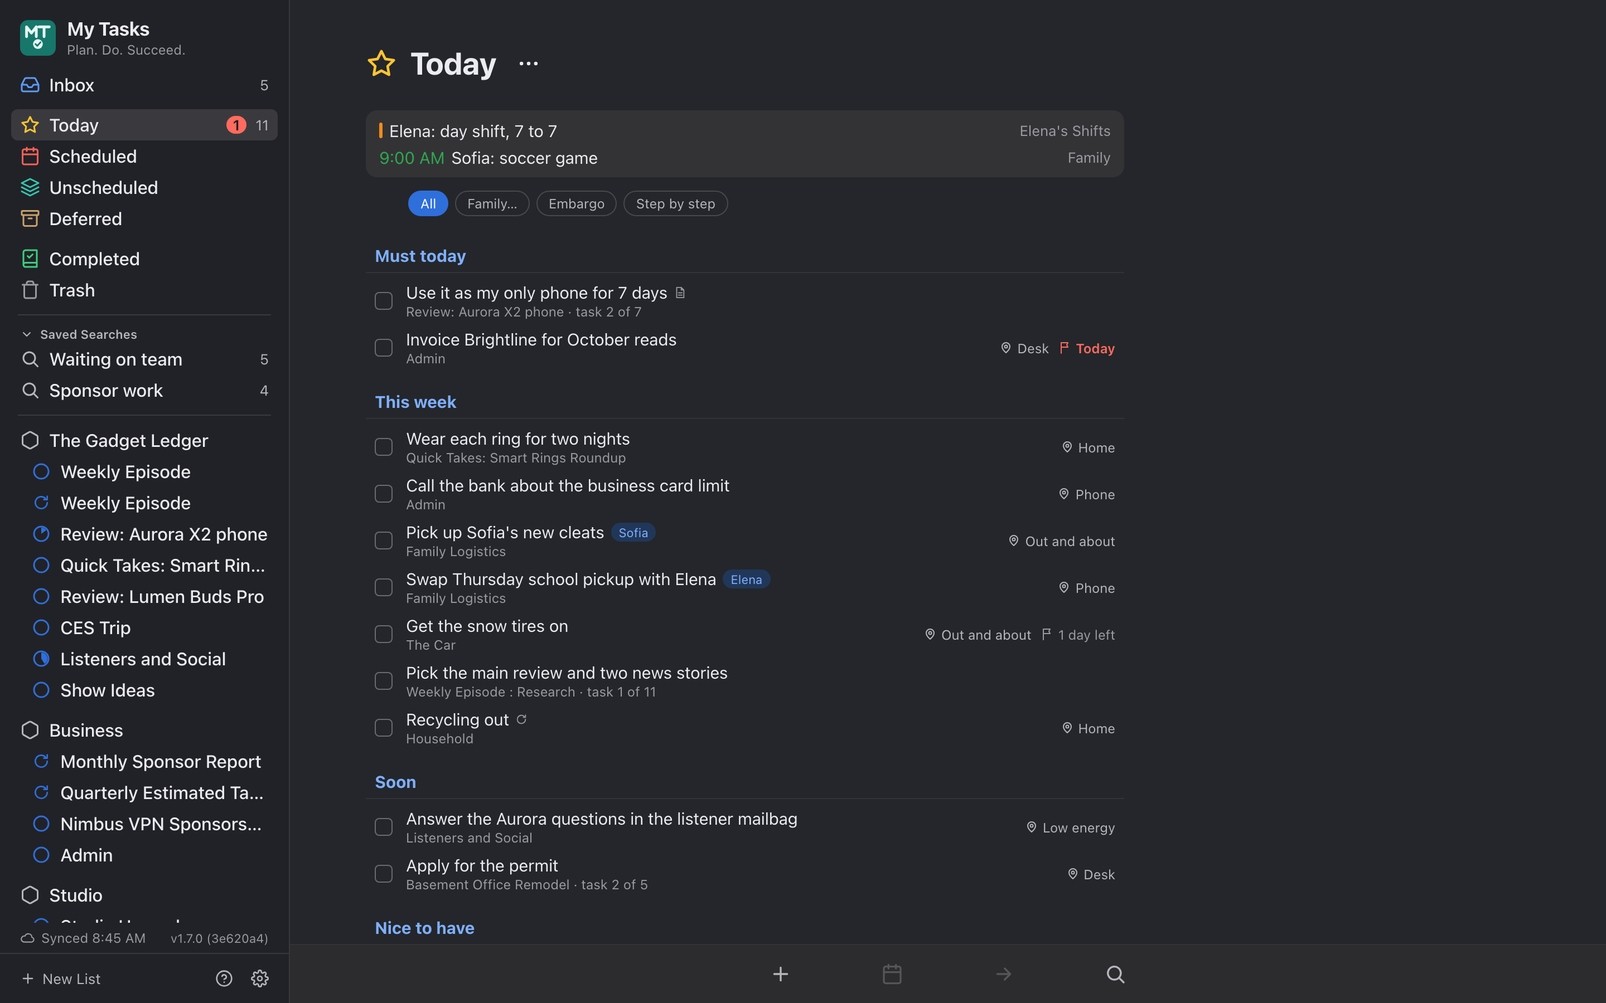
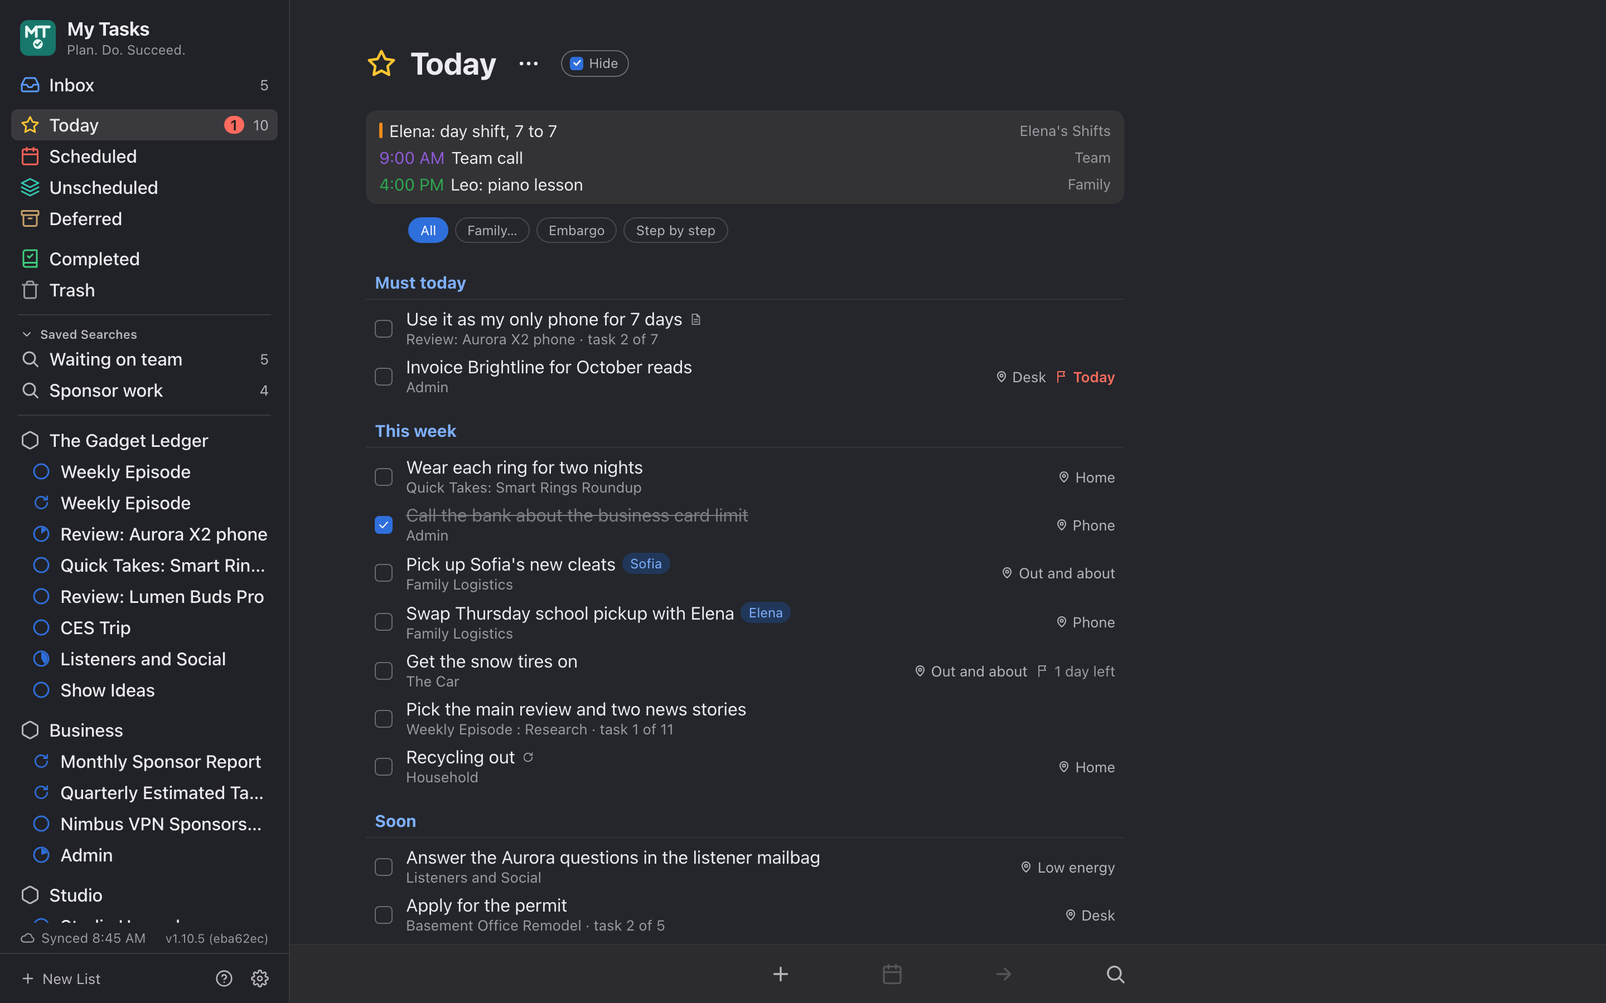
Sharing with people you trust, on the website (18d) (#35)
* Sharing with people you trust, on the website (18d)

Website only, no version change (conv. 2026-11-22-C, continued 2026-11-23):
- Guide: "Sharing with someone you trust" (#sharing): setting it up with
  one gist, token and passphrase, working together, stopping sharing.
- Limitations: item 5 "Sharing with someone else" (#sharing); items 5-9
  become 6-10; item 8 points to it instead of saying there's no sharing.
- Home: a Features card (a lone last card is centered) and a Common
  question; Compare and README: "Sharing with others" is Limited.
- Roadmap page: sharing and the screenshots done, the book to come;
  Teamwork off the Backlog (now not planned). DEVELOPMENT.md.
- npm run screenshots checks off one of Today's tasks, so the Home and
  README screenshots show Today's Hide button.

Claude-Session: https://claude.ai/code/session_01XGZXfH2F6Dp3BTDPhfh2Jh

* Retake the Home and README screenshots on the Mac, showing Today's Hide (18d)

Claude-Session: https://claude.ai/code/session_01XGZXfH2F6Dp3BTDPhfh2Jh

---------

diff --git a/site/limitations/index.html b/site/limitations/index.html
@@ -29,6 +29,7 @@
       <li><a href="#github">GitHub account and token</a></li>
       <li><a href="#passphrase">Your passphrase</a></li>
       <li><a href="#conflicts">Editing on two devices</a></li>
+      <li><a href="#sharing">Sharing with someone else</a></li>
       <li><a href="#device">Your device's copy</a></li>
       <li><a href="#safari">Safari tabs</a></li>
       <li><a href="#not-possible">What a web app can't do on its own</a></li>
@@ -54,27 +55,31 @@
     <p>Devices sync through your gist a few seconds after each change. Changes to different tasks on two devices, and to different parts of the same task (such as one device completing it and another adding a note), are all kept once each device has synced. If the same part of a task is changed on two devices before they sync, such as its title on both, the later change wins, judged by each device's clock, and the other change is lost; the device whose change was lost tells you which tasks were affected. A change that hasn't synced yet is only on its device, so it's lost if that device's data is cleared or it is disconnected first. <a href="/guide/#two-devices">How changes on two devices are kept</a>.</p>
     <p class="do">What to do: let a device sync (the sidebar shows "Synced") before switching to another.</p></div>
 
-  <div class="item" id="device"><h3>5. Your device's copy</h3>
+  <div class="item" id="sharing"><h3>5. Sharing with someone else</h3>
+    <p>Two or more people who trust each other can share My Tasks by using one gist, one token and one passphrase. The more people who share it, the more likely conflicts and surprises become: changes replacing each other, and shared settings or actions such as Empty Trash affecting everyone. There's <strong>no privacy</strong> between you: each of you can see, change and delete every task, and Focus on this Area only filters the screen. You all use the same token from the GitHub account that holds the gist, and it can read and change every gist in that account. Synced settings, tags and contexts are shared. Empty Trash, Archive, Restore and Change Passphrase affect all of you. When two of you change the same part of a task before syncing, only the person whose change was replaced is told. The gist's history keeps earlier versions, and anyone with the gist's address and the passphrase used at the time can open them. Sharing isn't suited to teams: there are no separate sign-ins or permissions, and no record of who changed what. <a href="/guide/#sharing">How to share</a>.</p>
+    <p class="do">What to do: share only with people you'd trust with all your tasks and all the gists in that GitHub account. Give the token an expiry. When sharing ends, make a new token for your own devices and revoke the old one. Agree on who runs Empty Trash, Archive and Restore, and save a backup from time to time.</p></div>
+
+  <div class="item" id="device"><h3>6. Your device's copy</h3>
     <p>Each device keeps a working copy of your tasks in the browser's storage so it works offline. That copy is <strong>not</strong> encrypted: anyone who can use your unlocked device can read it.</p>
     <p>A backup file you save in Settings › Backup is <strong>not</strong> encrypted either: anyone who can open it can read your tasks. Restoring one replaces all your tasks, on every device once it syncs, and can't be undone.</p>
     <p><strong>Archive</strong> files and a Things export are plain CSV files, not encrypted either. Archive removes the items it saves from every device for good: the file is then the only copy.</p>
     <p class="do">What to do: lock your devices, and use Disconnect This Device in Settings before giving one away. Keep backup, archive and export files somewhere only you can open, and save a backup before you restore one.</p></div>
 
-  <div class="item" id="safari"><h3>6. Safari tabs</h3>
+  <div class="item" id="safari"><h3>7. Safari tabs</h3>
     <p>In a Safari tab, Safari can delete a site's data after 7 days without use. Your tasks are also in your gist and come back when you connect again, but a change not yet synced would be lost. On iPhone and iPad, the installed app and Safari keep separate copies.</p>
     <p class="do">What to do: install My Tasks (Add to Home Screen, or Add to Dock on a Mac). Your tasks are also in your gist.</p></div>
 
-  <div class="item" id="not-possible"><h3>7. What a web app can't do on its own</h3>
-    <p>Without a server, My Tasks itself can't send notifications. <strong>Reminders</strong> are coming through the helper you run on a Mac, Mac only for now: you'll give a task a reminder time, and the helper will add it to Apple Reminders, which alerts you on your iPhone, iPad, Mac and Apple Watch. Until then, for a task that needs an alert at a set time, add a reminder for it in your device's reminders app. Web apps also can't have widgets, Siri or Shortcuts actions, an Apple Watch app, or a Quick Entry shortcut that works from other apps. There's no sharing lists with other people.</p>
+  <div class="item" id="not-possible"><h3>8. What a web app can't do on its own</h3>
+    <p>Without a server, My Tasks itself can't send notifications. <strong>Reminders</strong> are coming through the helper you run on a Mac, Mac only for now: you'll give a task a reminder time, and the helper will add it to Apple Reminders, which alerts you on your iPhone, iPad, Mac and Apple Watch. Until then, for a task that needs an alert at a set time, add a reminder for it in your device's reminders app. Web apps also can't have widgets, Siri or Shortcuts actions, an Apple Watch app, or a Quick Entry shortcut that works from other apps. Sharing is limited to people who trust each other using one gist (<a href="#sharing">Sharing with someone else</a>).</p>
     <p>Without a server, every device's tasks travel as one encrypted file in your gist, which holds about 5 MB. So My Tasks holds up to <strong>5,000 tasks</strong>, counting completed tasks and the Trash. From 4,500 the sidebar says how many you have; at 5,000 new tasks are refused until you make room. A repeating task still makes its next copy, and tasks from your other devices still arrive.</p>
     <p>A web app can't read your device's calendars. <strong>Calendar events</strong> come only from the helper you run on a Mac (<a href="/guide/#calendar">Guide</a>): without it, no events show, on any device. Events arrive when the helper runs (every 15 minutes by default) and the app next syncs, so a new event can take a while to appear. They're read-only, and there's no helper for Windows, Linux or a phone yet. Your events, with their titles, times and details, are kept in your gist, encrypted like your tasks, and the helper keeps your token and passphrase in your Mac's login Keychain.</p>
     <p class="do">What to do: empty the Trash and delete completed tasks you no longer need. Save a backup first if you want to keep them.</p></div>
 
-  <div class="item" id="platforms"><h3>8. Platforms</h3>
+  <div class="item" id="platforms"><h3>9. Platforms</h3>
     <p>My Tasks is tuned for Safari on Mac, iPhone and iPad, and for Chrome and Edge. Android works but isn't tested. Firefox can't install web apps. Screen readers and other assistive technology aren't supported yet. English only.</p>
     <p>Tag shortcuts use Control on Apple devices. On other systems the browser keeps Control and a letter for itself, so they use Alt instead; there, Alt with 0 to 5 stays with priorities, and in a browser tab Alt+D and Alt+H stay with their own shortcuts.</p></div>
 
-  <div class="item" id="no-warranty"><h3>9. No guarantees</h3>
+  <div class="item" id="no-warranty"><h3>10. No guarantees</h3>
     <p>My Tasks is provided as is, under the MIT licence, with no warranty and no guaranteed support or availability. Ask for help in <a href="https://www.reddit.com/r/mytasksfyi/">r/mytasksfyi</a> on Reddit, or <a href="https://github.com/CyberAdvisor/MyTasks/issues">report problems on GitHub</a>.</p>
     <p>Because My Tasks is open source, you can also host your own copy, or change it to suit you: see <a href="/self-hosting/">Your own copy</a>. A copy you host is yours to look after.</p></div>
 </main>

diff --git a/site/guide/index.html b/site/guide/index.html
@@ -30,6 +30,7 @@
       <li><a href="#passphrase">Choose a passphrase</a></li>
       <li><a href="#another-device">Add another device</a></li>
       <li><a href="#two-devices">Changing the same task on two devices</a></li>
+      <li><a href="#sharing">Sharing with someone you trust</a></li>
       <li><a href="#everyday">Everyday use</a></li>
       <li><a href="#repeating">Repeating tasks and projects</a></li>
       <li><a href="#calendar">Calendar events</a></li>
@@ -88,6 +89,30 @@
   <ul>
     <li>Let a device sync (the sidebar shows <strong>Synced</strong>) before switching to another. While a device is offline, the sidebar shows how many of its changes are waiting, such as <strong>Offline · 3 changes not synced</strong>.</li>
     <li>Keep your devices’ clocks set automatically.</li>
+  </ul>
+
+  <h2 id="sharing">Sharing with someone you trust</h2>
+  <p>People who trust each other, such as a couple or a household, can share one set of tasks. You all use the same gist, token and passphrase, so everyone can see and change everything. The more people who share it, the more likely it is that changes collide and replace each other, and that one person’s action, such as Empty Trash or a settings change, surprises the others. It isn’t made for teams: there are no separate sign-ins, no permissions and no record of who changed what. Read <a href="/limitations/#sharing">Sharing with someone else</a> before you start.</p>
+  <h3 id="sharing-setup">Setting it up</h3>
+  <ul>
+    <li>Give each person an area of their own, such as “Michael” and “Jane”, and a shared one for household tasks if you like.</li>
+    <li>On each of their devices, install My Tasks, paste the same token you use, and enter your passphrase (<a href="#another-device">Add another device</a>).</li>
+    <li>Each of you chooses <strong>Focus on this Area</strong> for your own area. It only changes what you see: the others’ tasks are still there, a click away.</li>
+  </ul>
+  <h3 id="sharing-together">Working together</h3>
+  <ul>
+    <li>Changes to different tasks, and to different parts of the same task, are all kept (<a href="#two-devices">Changing the same task on two devices</a>). When two of you change the same part before your devices sync, the later change wins, and only the person whose change was replaced sees the notice.</li>
+    <li>Synced settings are shared: Today’s grouping, the priority labels and the two automatic-priority switches, Completed Items, Sequential Projects, tasks shown per project in Unscheduled, and Show Calendar Events. So are tags and contexts: renaming or deleting one changes everyone’s tasks.</li>
+    <li>Some actions affect everything, for all of you: <strong>Empty Trash</strong>, <strong>Delete Immediately</strong>, <strong>Archive</strong>, <strong>Restore from Backup…</strong>, <strong>Move Completed Items</strong> and <strong>Change Passphrase</strong>. Agree that only one of you runs them.</li>
+    <li>Undo can refuse a step with “Can’t undo: changed on another device” when someone else’s device has touched that task since.</li>
+    <li>The 5,000-task limit counts everyone’s tasks.</li>
+    <li>If one of you runs the calendar helper on a Mac, its events show for all of you.</li>
+  </ul>
+  <h3 id="sharing-stop">Stopping sharing</h3>
+  <ul>
+    <li>On GitHub, make a new token, and use <strong>Change Token</strong> in Settings › Sync on each of your own devices. Then revoke the old token on GitHub (Settings › Developer settings › Personal access tokens). The other person’s devices stop syncing; they keep the tasks they already have until <strong>Disconnect This Device</strong> is used on them.</li>
+    <li>Change your passphrase in Settings › Sync.</li>
+    <li>Earlier versions in the gist’s history stay encrypted with the old passphrase: anyone who has the gist’s address and that passphrase can still open them.</li>
   </ul>
 
   <h2 id="everyday">Everyday use</h2>

diff --git a/site/index.html b/site/index.html
@@ -56,6 +56,7 @@
       <div class="card"><h3>Contexts</h3><p>Mark where or how a task gets done — Errands, Phone, Computer — and filter Today by it.</p></div>
       <div class="card"><h3>Group Today your way</h3><p>See Today as one list, or grouped by project, priority or context. Save searches to the sidebar.</p></div>
       <div class="card"><h3>Made for the keyboard</h3><p>Quick Entry, Quick Find and a full set of keyboard shortcuts, wherever the browser allows them.</p></div>
+      <div class="card"><h3>Share with someone you trust</h3><p>A couple or a household can share one set of tasks, each in their own area. The more people share, the more likely changes collide. <a href="/limitations/#sharing">Its limits</a></p></div>
     </div>
   </section>
 
@@ -107,6 +108,7 @@
       <details><summary>Can I take my data with me?</summary><p>Yes. <strong>Save Backup</strong> in Settings › Backup downloads all your tasks as a file whenever you like, <strong>Archive</strong> saves old completed tasks to a CSV file, and the gist is in your own account. <a href="/guide/#backup">Back up and restore</a>.</p></details>
       <details><summary>Does it work offline?</summary><p>Yes. Installed, My Tasks opens and works with no connection, and your changes sync when you're back online.</p></details>
       <details><summary>Can I import tasks from another app?</summary><p>Yes. <strong>Import…</strong> in Settings adds tasks from a CSV file to what you have, after showing you what it holds. A script for your Mac writes that file from Things 3. <a href="/import/">Import from other apps</a>.</p></details>
+      <details><summary>Can I share my tasks with someone else?</summary><p>Yes, with people you trust, such as a partner or your household. You all use the same gist, token and passphrase, and each of you can keep your own area. Everyone can see and change everything, settings and actions such as Empty Trash affect all of you, and the more people who share, the more likely it is that changes collide and replace each other. It isn't made for teams. <a href="/guide/#sharing">How to share</a> · <a href="/limitations/#sharing">Sharing with someone else</a>.</p></details>
       <details><summary>Does it have reminders?</summary><p>Not yet, but they're coming. A web app without a server can't send notifications itself, so you'll give a task a reminder time and the calendar helper on your Mac will add it to Apple Reminders, which alerts you on your iPhone, iPad, Mac and Apple Watch. It's Mac only for now: it needs a Mac running the helper. Until then, for a task that needs an alert at a set time, add a reminder for it in your device's reminders app. <a href="/roadmap/">Roadmap</a> · <a href="/limitations/#not-possible">What a web app can't do on its own</a>.</p></details>
     </div>
   </section>

diff --git a/e2e/screenshots.shoot.ts b/e2e/screenshots.shoot.ts
@@ -2,7 +2,8 @@
  * `npm run screenshots`: retake the README and website screenshots from the
  * current code, with Marcus Reyes's sample from the book (e2e/marcusPage.ts,
  * never real tasks), against a faked GitHub: Today grouped by his priorities,
- * with the day's calendar events, as in the book. Not part of
+ * with the day's calendar events, as in the book, and one task checked off so
+ * Today shows its Hide button. Not part of
  * `npm run test:ui`: it runs through playwright.screenshots.config.ts, and
  * writes:
  *
@@ -13,15 +14,24 @@
  *
  * Run on a Mac, so the text is in the Mac's own font.
  */
-import { test } from '@playwright/test';
+import { expect, test, type Page } from '@playwright/test';
 import { go, groupToday, marcus, settle } from './marcusPage';
 
 const SHOTS = 'site/assets/shots';
+
+/** Check off one of Today's tasks, so it shows struck through and Today shows Hide. */
+async function checkOffOne(page: Page): Promise<void> {
+  await page.getByRole('checkbox', { name: 'Complete: Call the bank about the business card limit' }).click();
+  // The task stays in Today, struck through; Hide appears after its 2 seconds.
+  await expect(page.getByRole('button', { name: 'Hide' })).toBeVisible({ timeout: 5000 });
+  await settle(page);
+}
 
 test('Mac screenshots, light and dark', async ({ browser }) => {
   const page = await marcus(browser);
   await go(page, '#/today', 'Invoice Brightline');
   await groupToday(page, 'Priorities');
+  await checkOffOne(page);
   await page.screenshot({ path: `${SHOTS}/desktop-light.png` });
   await page.screenshot({ path: 'docs/images/today.png' });
   await page.emulateMedia({ colorScheme: 'dark' });
@@ -33,5 +43,6 @@ test('iPhone screenshot, light', async ({ browser }) => {
   const page = await marcus(browser, true);
   await go(page, '#/today', 'Invoice Brightline');
   await groupToday(page, 'Priorities');
+  await checkOffOne(page);
   await page.screenshot({ path: `${SHOTS}/phone-light.png` });
 });

diff --git a/site/roadmap/index.html b/site/roadmap/index.html
@@ -31,7 +31,9 @@
       <li class="done">Changes to different parts of the same task on two devices are all kept, such as one completing it and another adding a note <span class="ver">v1.10.0</span></li>
       <li class="done">A device tells you when a change of yours was replaced by a later one from another device <span class="ver">v1.10.1</span></li>
       <li class="done">While offline, the sidebar shows how many changes are waiting to sync <span class="ver">v1.10.2</span></li>
-      <li>Sharing your tasks with someone you trust, with its limits</li>
+      <li class="done">Sharing your tasks with people you trust, with its limits, on this website</li>
+      <li class="done">Screenshots on this website retaken, showing Today’s Hide / Show</li>
+      <li>The book shows sharing, with a partner keeping her own area</li>
     </ul>
   </section>
   <section class="milestone">
@@ -48,13 +50,6 @@
     <ul>
       <li>Switch between gists, for example one for work and one for personal tasks</li>
       <li>Other places to keep your tasks (research)</li>
-    </ul>
-  </section>
-  <section class="milestone">
-    <h3>Teamwork</h3>
-    <ul>
-      <li>Small teams sharing a gist, with an assigned field on tasks (research)</li>
-      <li>Two people sharing one gist, each in their own area, without one overwriting the other: changes merged field by field, settings kept per person, and Empty Trash, Archive and Move Completed Items acting only on your own area</li>
     </ul>
   </section>
   <section class="milestone">

diff --git a/site/assets/site.css b/site/assets/site.css
@@ -59,6 +59,8 @@ section.block { padding: 80px 0 0; }
 section.block h2 { font-size: 36px; letter-spacing: -0.01em; text-align: center; margin: 0 0 12px; }
 section.block p.sub { text-align: center; color: var(--text-2); font-size: 19px; max-width: 680px; margin: 0 auto 40px; }
 .grid3 { display: grid; grid-template-columns: repeat(3, 1fr); gap: 22px; }
+/* A lone card on the last row sits in the middle column. */
+.grid3 > :last-child:nth-child(3n+1) { grid-column: 2; }
 /* Home: common questions, each opening on click (<details>, no script). */
 .faq { max-width: 760px; margin: 28px auto 0; border-top: 1px solid var(--line); }
 .faq details { border-bottom: 1px solid var(--line); }
@@ -131,6 +133,7 @@ kbd { font-family: inherit; font-size: 14px; background: var(--bg-2); border: 1p
   .hero p.lede { font-size: 18px; }
   .shots img.phone { width: 120px; right: -6px; bottom: -24px; border-width: 4px; border-radius: 20px; }
   .grid3, .steps { grid-template-columns: 1fr; }
+  .grid3 > :last-child:nth-child(3n+1) { grid-column: auto; }
   section.block h2, .closing h2 { font-size: 28px; }
   .page h1 { font-size: 32px; }
   .toc ol { columns: 1; }

diff --git a/site/compare/index.html b/site/compare/index.html
@@ -47,7 +47,7 @@
       <tr><td>Calendar events with your tasks</td><td>✅ The Mac’s calendars, through a helper on the Mac</td><td>✅</td><td>✅ Google or Outlook</td><td>✅</td></tr>
       <tr><td>Reminders and notifications</td><td>Coming: reminders in Apple Reminders, through the helper on a Mac (Mac only for now)</td><td>✅</td><td>✅</td><td>✅</td></tr>
       <tr><td>Board (Kanban) view</td><td>—</td><td>—</td><td>✅</td><td>—</td></tr>
-      <tr><td>Sharing with others</td><td>—</td><td>—</td><td>✅</td><td>—</td></tr>
+      <tr><td>Sharing with others</td><td>Limited: people who trust each other can share one gist, with the cautions on the <a href="/limitations/#sharing">Limitations</a> page</td><td>—</td><td>✅</td><td>—</td></tr>
       <tr><td>Markdown in notes</td><td>✅</td><td>✅</td><td>✅</td><td>—</td></tr>
       <tr><td>Widgets, Siri and Apple Watch</td><td>—</td><td>✅</td><td>✅</td><td>✅</td></tr>
     </table>

diff --git a/DEVELOPMENT.md b/DEVELOPMENT.md
@@ -201,6 +201,6 @@ v1 is built in milestones, each a pull request.
 | 15 | New logo (1.7.0): MT above a check in a circle, in teal, for the app, its icons and the website; screenshots on the website and in the README retaken; the book updated with its pictures retaken | Done |
 | 16 | Formatted notes (1.8.0 to 1.8.4): bold, italic, lists and clickable links in task and project notes; fixes on phones; clickable links in checklist items; larger text on the Mac; Apple Pencil drags only after a long press | Done |
 | 17 | Tidier lists (1.9.0 to 1.9.3): a few tasks per project in Unscheduled, with Show All (1.9.0); Scheduled by priority (1.9.1); schema 12 (1.9.2); a chosen None holding only in Today (1.9.3). Then 1.9.4: the return check waits for the sync | Done |
-| 18 | Changes kept on two devices (from 1.10.0): changes to different parts of a task on two devices all kept (1.10.0); a notice when a change was replaced (1.10.1); the count of changes waiting while offline (1.10.2); sharing with someone you trust on the website | In progress |
+| 18 | Changes kept on two devices (from 1.10.0): changes to different parts of a task on two devices all kept (1.10.0); a notice when a change was replaced (1.10.1); the count of changes waiting while offline (1.10.2); sharing with people you trust on the website, and its screenshots retaken; the book showing sharing (to come) | In progress |
 
 The backlog is on the website's [Roadmap](https://mytasks.fyi/roadmap/) page.

diff --git a/README.md b/README.md
@@ -49,7 +49,7 @@ A better task manager that is **free**, **private** and **secure**. My Tasks giv
 | Calendar events with your tasks | ✅ The Mac’s calendars, through a helper on the Mac | ✅ | ✅ Google or Outlook | ✅ |
 | Reminders and notifications | Coming: reminders in Apple Reminders, through the helper on a Mac (Mac only for now) | ✅ | ✅ | ✅ |
 | Board (Kanban) view | — | — | ✅ | — |
-| Sharing with others | — | — | ✅ | — |
+| Sharing with others | Limited: people who trust each other can share one gist, with the cautions on the [Limitations](https://mytasks.fyi/limitations/#sharing) page | — | ✅ | — |
 | Markdown in notes | ✅ | ✅ | ✅ | — |
 | Widgets, Siri and Apple Watch | — ² | ✅ | ✅ | ✅ |
 
